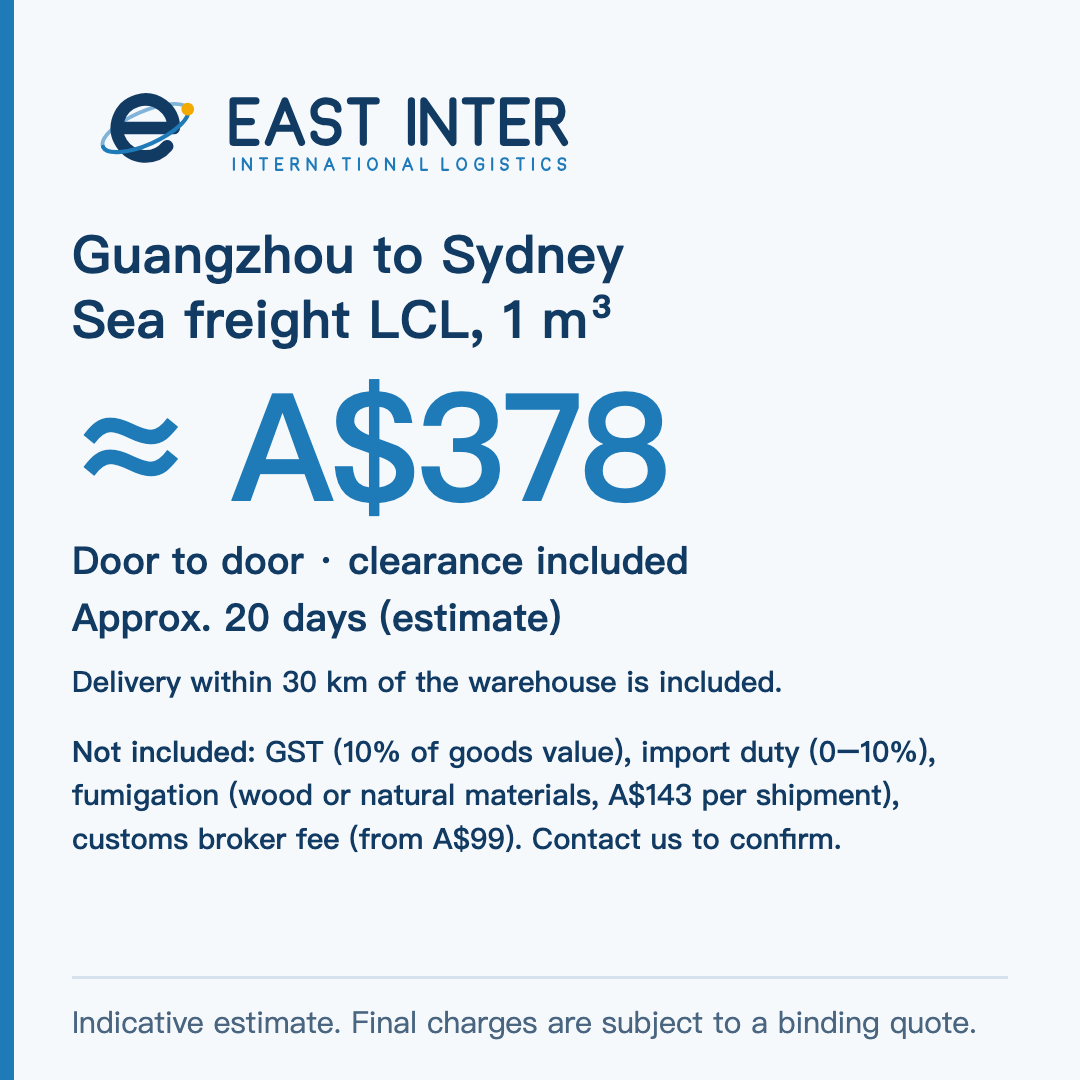
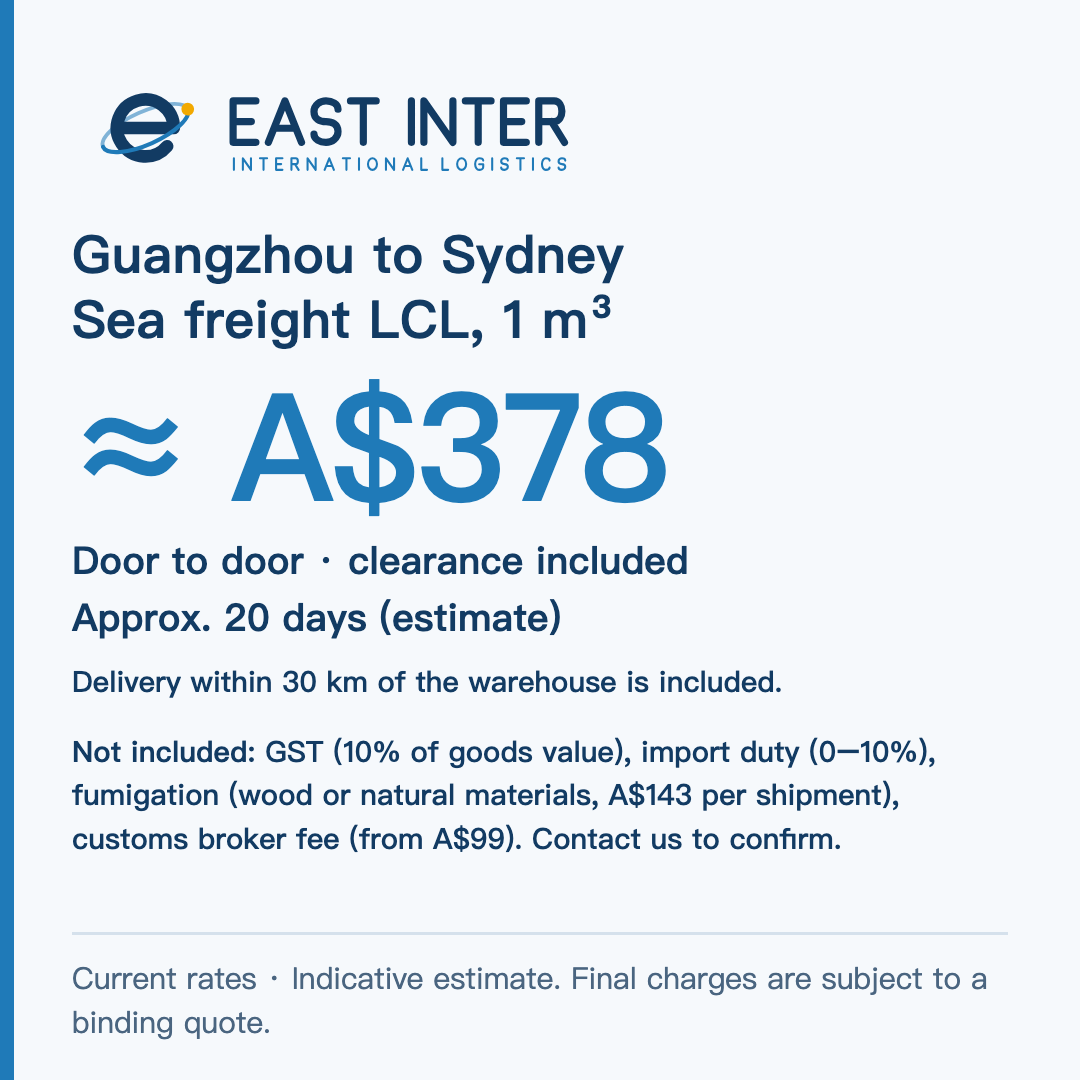
docs(client): East Inter 社媒改 100% 英文：D1-D7 英文稿、d1/d2/d4 英文卡，中文稿标搁置 [east.social.copy-101]

Changed region(s): [[0.0611, 0.8861, 0.9167, 0.9778]]

diff --git a/docs/clients/east-inter/cards-draft/d1-en.html b/docs/clients/east-inter/cards-draft/d1-en.html
@@ -1,0 +1,28 @@
+<!doctype html><html lang="zh"><meta charset="utf-8"><style>
+*{box-sizing:border-box;margin:0}
+body{width:1080px;height:1080px;background:#F6F9FC;font-family:'PingFang SC','Helvetica Neue',Arial,sans-serif;color:#123B63;position:relative;overflow:hidden}
+.top{position:absolute;left:72px;top:64px}
+.bar{position:absolute;left:0;top:0;width:14px;height:1080px;background:#1F7AB8}
+.main{position:absolute;left:72px;right:72px;top:250px}
+h1{font-size:60px;line-height:1.25;font-weight:800;letter-spacing:.5px}
+.big{font-size:190px;line-height:1;font-weight:900;color:#1F7AB8;margin:36px 0 18px;letter-spacing:-4px}
+.sub{font-size:44px;line-height:1.5;font-weight:600}
+.row{display:flex;justify-content:space-between;align-items:baseline;font-size:54px;font-weight:700;padding:20px 0;border-bottom:3px solid #D5E1EC}
+.row b{color:#1F7AB8;font-weight:900}
+.list li{list-style:none;font-size:54px;font-weight:700;padding:16px 0;line-height:1.3}
+.list li:before{content:"";display:inline-block;width:22px;height:22px;border-radius:50%;background:#F2A900;margin-right:26px}
+.foot{position:absolute;left:72px;right:72px;bottom:48px;font-size:32px;color:#4A6580;border-top:3px solid #D5E1EC;padding-top:22px;line-height:1.45}
+.pill{display:inline-block;background:#123B63;color:#fff;border-radius:60px;padding:10px 34px;font-size:40px;font-weight:700;margin:6px 14px 6px 0}
+.note{font-size:30px;line-height:1.5;color:#123B63;margin-top:26px;font-weight:500}
+.note b{font-weight:800}
+.en .main{top:222px}.en h1{font-size:52px}.en .note{font-size:29px}.en .foot{font-size:30px;bottom:36px}.en .row{padding:14px 0}
+</style><body class="en"><div class="bar"></div><div class="top"><svg xmlns="http://www.w3.org/2000/svg" viewBox="0 0 652 160" width="520" height="128" role="img" aria-label="East Inter International Logistics"><title>East Inter International Logistics</title>
+<g transform="translate(17.00 5.00) scale(0.9375)">
+<g transform="rotate(-24 80 80)"><path d="M18 80 A62 22 0 0 1 142 80" fill="none" stroke="#1F7AB8" stroke-width="5" stroke-linecap="round" opacity=".55"/></g>
+<path d="M42 80 H118 A38 38 0 1 0 109.1 104.4" fill="none" stroke="#123B63" stroke-width="17" stroke-linecap="round" stroke-linejoin="round"/>
+<g transform="rotate(-24 80 80)"><path d="M18 80 A62 22 0 0 0 142 80" fill="none" stroke="#1F7AB8" stroke-width="5.5" stroke-linecap="round"/><circle cx="142" cy="80" r="8.5" fill="#F2A900"/></g>
+</g>
+<path d="M 230.60 46.00 H 202.00 V 98.00 H 230.60 M 202.00 72.00 H 224.88 M 246.20 98.00 L 267.00 46.00 L 287.80 98.00 M 254.52 80.32 H 279.48 M 333.56 56.40 C 333.56 49.64 326.02 46.00 318.48 46.00 C 310.94 46.00 303.40 51.20 303.40 59.52 C 303.40 68.88 310.94 72.00 318.48 72.00 C 326.02 72.00 333.56 75.12 333.56 84.48 C 333.56 92.80 326.02 98.00 318.48 98.00 C 310.94 98.00 303.40 94.36 303.40 87.60 M 349.16 46.00 H 381.40 M 365.28 46.00 V 98.00 M 425.60 46.00 V 98.00 M 441.20 98.00 V 46.00 L 477.60 98.00 V 46.00 M 493.20 46.00 H 525.44 M 509.32 46.00 V 98.00 M 569.64 46.00 H 541.04 V 98.00 H 569.64 M 541.04 72.00 H 563.92 M 585.24 98.00 V 46.00 H 604.58 C 617.48 46.00 617.48 72.00 604.58 72.00 H 585.24 M 601.36 72.00 L 617.48 98.00" fill="none" stroke="#123B63" stroke-width="9" stroke-linecap="round" stroke-linejoin="round"/>
+<path d="M 203.00 118.00 V 132.50 M 214.25 132.50 V 118.00 L 224.40 132.50 V 118.00 M 235.65 118.00 H 244.64 M 240.15 118.00 V 132.50 M 263.87 118.00 H 255.89 V 132.50 H 263.87 M 255.89 125.25 H 262.27 M 275.12 132.50 V 118.00 H 280.51 C 284.11 118.00 284.11 125.25 280.51 125.25 H 275.12 M 279.61 125.25 L 284.11 132.50 M 295.36 132.50 V 118.00 L 305.51 132.50 V 118.00 M 316.76 132.50 L 322.56 118.00 L 328.36 132.50 M 319.08 127.57 H 326.04 M 339.61 118.00 H 348.60 M 344.10 118.00 V 132.50 M 359.85 118.00 V 132.50 M 376.75 118.00 C 379.58 118.00 382.41 120.90 382.41 125.25 C 382.41 129.60 379.58 132.50 376.75 132.50 C 373.93 132.50 371.10 129.60 371.10 125.25 C 371.10 120.90 373.93 118.00 376.75 118.00 Z M 393.66 132.50 V 118.00 L 403.81 132.50 V 118.00 M 415.06 132.50 L 420.86 118.00 L 426.66 132.50 M 417.38 127.57 H 424.34 M 437.91 118.00 V 132.50 H 445.16 M 464.39 118.00 V 132.50 H 471.64 M 488.54 118.00 C 491.37 118.00 494.20 120.90 494.20 125.25 C 494.20 129.60 491.37 132.50 488.54 132.50 C 485.71 132.50 482.89 129.60 482.89 125.25 C 482.89 120.90 485.71 118.00 488.54 118.00 Z M 515.60 120.90 C 515.60 119.16 513.06 118.00 510.52 118.00 C 507.98 118.00 505.45 120.90 505.45 125.25 C 505.45 129.60 507.98 132.50 510.52 132.50 C 513.06 132.50 515.60 131.05 515.60 128.88 V 125.54 H 510.52 M 526.85 118.00 V 132.50 M 546.51 120.90 C 546.51 119.02 544.41 118.00 542.30 118.00 C 540.20 118.00 538.10 119.45 538.10 121.77 C 538.10 124.38 540.20 125.25 542.30 125.25 C 544.41 125.25 546.51 126.12 546.51 128.73 C 546.51 131.05 544.41 132.50 542.30 132.50 C 540.20 132.50 538.10 131.49 538.10 129.60 M 557.76 118.00 H 566.75 M 562.25 118.00 V 132.50 M 578.00 118.00 V 132.50 M 598.82 120.90 C 598.82 119.16 596.43 118.00 594.03 118.00 C 591.64 118.00 589.25 120.90 589.25 125.25 C 589.25 129.60 591.64 132.50 594.03 132.50 C 596.43 132.50 598.82 131.34 598.82 129.60 M 618.48 120.90 C 618.48 119.02 616.38 118.00 614.28 118.00 C 612.17 118.00 610.07 119.45 610.07 121.77 C 610.07 124.38 612.17 125.25 614.28 125.25 C 616.38 125.25 618.48 126.12 618.48 128.73 C 618.48 131.05 616.38 132.50 614.28 132.50 C 612.17 132.50 610.07 131.49 610.07 129.60" fill="none" stroke="#1F7AB8" stroke-width="2.6" stroke-linecap="round" stroke-linejoin="round"/>
+</svg>
+</div><div class="main"><h1>From China to Australia,<br>delivered to your door</h1><div style='margin-top:32px;font-size:34px;font-weight:700;color:#4A6580'>Ships from</div><div><span class='pill'>Guangzhou</span><span class='pill'>Shenzhen</span></div><div style='margin-top:26px;font-size:34px;font-weight:700;color:#4A6580'>Delivers to</div><div><span class='pill' style='background:#1F7AB8;font-size:36px'>Sydney</span><span class='pill' style='background:#1F7AB8;font-size:36px'>Melbourne</span><span class='pill' style='background:#1F7AB8;font-size:36px'>Brisbane</span></div><div><span class='pill' style='background:#1F7AB8;font-size:36px'>Adelaide</span><span class='pill' style='background:#1F7AB8;font-size:36px'>Perth</span></div><div class='sub' style='margin-top:24px;font-size:36px'>Somewhere else? Just ask our team.</div></div><div class="foot">Sea freight · Air freight · Door-to-door delivery</div></body></html>

diff --git a/docs/clients/east-inter/cards-draft/d4-en.html b/docs/clients/east-inter/cards-draft/d4-en.html
@@ -1,0 +1,28 @@
+<!doctype html><html lang="zh"><meta charset="utf-8"><style>
+*{box-sizing:border-box;margin:0}
+body{width:1080px;height:1080px;background:#F6F9FC;font-family:'PingFang SC','Helvetica Neue',Arial,sans-serif;color:#123B63;position:relative;overflow:hidden}
+.top{position:absolute;left:72px;top:64px}
+.bar{position:absolute;left:0;top:0;width:14px;height:1080px;background:#1F7AB8}
+.main{position:absolute;left:72px;right:72px;top:250px}
+h1{font-size:60px;line-height:1.25;font-weight:800;letter-spacing:.5px}
+.big{font-size:190px;line-height:1;font-weight:900;color:#1F7AB8;margin:36px 0 18px;letter-spacing:-4px}
+.sub{font-size:44px;line-height:1.5;font-weight:600}
+.row{display:flex;justify-content:space-between;align-items:baseline;font-size:54px;font-weight:700;padding:20px 0;border-bottom:3px solid #D5E1EC}
+.row b{color:#1F7AB8;font-weight:900}
+.list li{list-style:none;font-size:54px;font-weight:700;padding:16px 0;line-height:1.3}
+.list li:before{content:"";display:inline-block;width:22px;height:22px;border-radius:50%;background:#F2A900;margin-right:26px}
+.foot{position:absolute;left:72px;right:72px;bottom:48px;font-size:32px;color:#4A6580;border-top:3px solid #D5E1EC;padding-top:22px;line-height:1.45}
+.pill{display:inline-block;background:#123B63;color:#fff;border-radius:60px;padding:10px 34px;font-size:40px;font-weight:700;margin:6px 14px 6px 0}
+.note{font-size:30px;line-height:1.5;color:#123B63;margin-top:26px;font-weight:500}
+.note b{font-weight:800}
+.en .main{top:222px}.en h1{font-size:52px}.en .note{font-size:29px}.en .foot{font-size:30px;bottom:36px}.en .row{padding:14px 0}
+</style><body class="en"><div class="bar"></div><div class="top"><svg xmlns="http://www.w3.org/2000/svg" viewBox="0 0 652 160" width="520" height="128" role="img" aria-label="East Inter International Logistics"><title>East Inter International Logistics</title>
+<g transform="translate(17.00 5.00) scale(0.9375)">
+<g transform="rotate(-24 80 80)"><path d="M18 80 A62 22 0 0 1 142 80" fill="none" stroke="#1F7AB8" stroke-width="5" stroke-linecap="round" opacity=".55"/></g>
+<path d="M42 80 H118 A38 38 0 1 0 109.1 104.4" fill="none" stroke="#123B63" stroke-width="17" stroke-linecap="round" stroke-linejoin="round"/>
+<g transform="rotate(-24 80 80)"><path d="M18 80 A62 22 0 0 0 142 80" fill="none" stroke="#1F7AB8" stroke-width="5.5" stroke-linecap="round"/><circle cx="142" cy="80" r="8.5" fill="#F2A900"/></g>
+</g>
+<path d="M 230.60 46.00 H 202.00 V 98.00 H 230.60 M 202.00 72.00 H 224.88 M 246.20 98.00 L 267.00 46.00 L 287.80 98.00 M 254.52 80.32 H 279.48 M 333.56 56.40 C 333.56 49.64 326.02 46.00 318.48 46.00 C 310.94 46.00 303.40 51.20 303.40 59.52 C 303.40 68.88 310.94 72.00 318.48 72.00 C 326.02 72.00 333.56 75.12 333.56 84.48 C 333.56 92.80 326.02 98.00 318.48 98.00 C 310.94 98.00 303.40 94.36 303.40 87.60 M 349.16 46.00 H 381.40 M 365.28 46.00 V 98.00 M 425.60 46.00 V 98.00 M 441.20 98.00 V 46.00 L 477.60 98.00 V 46.00 M 493.20 46.00 H 525.44 M 509.32 46.00 V 98.00 M 569.64 46.00 H 541.04 V 98.00 H 569.64 M 541.04 72.00 H 563.92 M 585.24 98.00 V 46.00 H 604.58 C 617.48 46.00 617.48 72.00 604.58 72.00 H 585.24 M 601.36 72.00 L 617.48 98.00" fill="none" stroke="#123B63" stroke-width="9" stroke-linecap="round" stroke-linejoin="round"/>
+<path d="M 203.00 118.00 V 132.50 M 214.25 132.50 V 118.00 L 224.40 132.50 V 118.00 M 235.65 118.00 H 244.64 M 240.15 118.00 V 132.50 M 263.87 118.00 H 255.89 V 132.50 H 263.87 M 255.89 125.25 H 262.27 M 275.12 132.50 V 118.00 H 280.51 C 284.11 118.00 284.11 125.25 280.51 125.25 H 275.12 M 279.61 125.25 L 284.11 132.50 M 295.36 132.50 V 118.00 L 305.51 132.50 V 118.00 M 316.76 132.50 L 322.56 118.00 L 328.36 132.50 M 319.08 127.57 H 326.04 M 339.61 118.00 H 348.60 M 344.10 118.00 V 132.50 M 359.85 118.00 V 132.50 M 376.75 118.00 C 379.58 118.00 382.41 120.90 382.41 125.25 C 382.41 129.60 379.58 132.50 376.75 132.50 C 373.93 132.50 371.10 129.60 371.10 125.25 C 371.10 120.90 373.93 118.00 376.75 118.00 Z M 393.66 132.50 V 118.00 L 403.81 132.50 V 118.00 M 415.06 132.50 L 420.86 118.00 L 426.66 132.50 M 417.38 127.57 H 424.34 M 437.91 118.00 V 132.50 H 445.16 M 464.39 118.00 V 132.50 H 471.64 M 488.54 118.00 C 491.37 118.00 494.20 120.90 494.20 125.25 C 494.20 129.60 491.37 132.50 488.54 132.50 C 485.71 132.50 482.89 129.60 482.89 125.25 C 482.89 120.90 485.71 118.00 488.54 118.00 Z M 515.60 120.90 C 515.60 119.16 513.06 118.00 510.52 118.00 C 507.98 118.00 505.45 120.90 505.45 125.25 C 505.45 129.60 507.98 132.50 510.52 132.50 C 513.06 132.50 515.60 131.05 515.60 128.88 V 125.54 H 510.52 M 526.85 118.00 V 132.50 M 546.51 120.90 C 546.51 119.02 544.41 118.00 542.30 118.00 C 540.20 118.00 538.10 119.45 538.10 121.77 C 538.10 124.38 540.20 125.25 542.30 125.25 C 544.41 125.25 546.51 126.12 546.51 128.73 C 546.51 131.05 544.41 132.50 542.30 132.50 C 540.20 132.50 538.10 131.49 538.10 129.60 M 557.76 118.00 H 566.75 M 562.25 118.00 V 132.50 M 578.00 118.00 V 132.50 M 598.82 120.90 C 598.82 119.16 596.43 118.00 594.03 118.00 C 591.64 118.00 589.25 120.90 589.25 125.25 C 589.25 129.60 591.64 132.50 594.03 132.50 C 596.43 132.50 598.82 131.34 598.82 129.60 M 618.48 120.90 C 618.48 119.02 616.38 118.00 614.28 118.00 C 612.17 118.00 610.07 119.45 610.07 121.77 C 610.07 124.38 612.17 125.25 614.28 125.25 C 616.38 125.25 618.48 126.12 618.48 128.73 C 618.48 131.05 616.38 132.50 614.28 132.50 C 612.17 132.50 610.07 131.49 610.07 129.60" fill="none" stroke="#1F7AB8" stroke-width="2.6" stroke-linecap="round" stroke-linejoin="round"/>
+</svg>
+</div><div class="main"><h1>Want a quote?<br>Have these ready</h1><ul class='list' style='margin-top:14px'><li style='font-size:42px;padding:6px 0'>Origin</li><li style='font-size:42px;padding:6px 0'>Destination</li><li style='font-size:42px;padding:6px 0'>Goods description</li><li style='font-size:42px;padding:6px 0'>Number of packages</li><li style='font-size:42px;padding:6px 0'>Total weight</li><li style='font-size:42px;padding:6px 0'>Outer dimensions</li></ul><div style='margin-top:22px;font-size:40px;font-weight:800;color:#123B63'>Email our team: zzj@eastinter.net</div></div><div class="foot">Different box sizes? Add a packing list.</div></body></html>

diff --git a/docs/clients/east-inter/cards-draft/d2-en.html b/docs/clients/east-inter/cards-draft/d2-en.html
@@ -1,0 +1,28 @@
+<!doctype html><html lang="zh"><meta charset="utf-8"><style>
+*{box-sizing:border-box;margin:0}
+body{width:1080px;height:1080px;background:#F6F9FC;font-family:'PingFang SC','Helvetica Neue',Arial,sans-serif;color:#123B63;position:relative;overflow:hidden}
+.top{position:absolute;left:72px;top:64px}
+.bar{position:absolute;left:0;top:0;width:14px;height:1080px;background:#1F7AB8}
+.main{position:absolute;left:72px;right:72px;top:250px}
+h1{font-size:60px;line-height:1.25;font-weight:800;letter-spacing:.5px}
+.big{font-size:190px;line-height:1;font-weight:900;color:#1F7AB8;margin:36px 0 18px;letter-spacing:-4px}
+.sub{font-size:44px;line-height:1.5;font-weight:600}
+.row{display:flex;justify-content:space-between;align-items:baseline;font-size:54px;font-weight:700;padding:20px 0;border-bottom:3px solid #D5E1EC}
+.row b{color:#1F7AB8;font-weight:900}
+.list li{list-style:none;font-size:54px;font-weight:700;padding:16px 0;line-height:1.3}
+.list li:before{content:"";display:inline-block;width:22px;height:22px;border-radius:50%;background:#F2A900;margin-right:26px}
+.foot{position:absolute;left:72px;right:72px;bottom:48px;font-size:32px;color:#4A6580;border-top:3px solid #D5E1EC;padding-top:22px;line-height:1.45}
+.pill{display:inline-block;background:#123B63;color:#fff;border-radius:60px;padding:10px 34px;font-size:40px;font-weight:700;margin:6px 14px 6px 0}
+.note{font-size:30px;line-height:1.5;color:#123B63;margin-top:26px;font-weight:500}
+.note b{font-weight:800}
+.en .main{top:222px}.en h1{font-size:52px}.en .note{font-size:29px}.en .foot{font-size:30px;bottom:36px}.en .row{padding:14px 0}
+</style><body class="en"><div class="bar"></div><div class="top"><svg xmlns="http://www.w3.org/2000/svg" viewBox="0 0 652 160" width="520" height="128" role="img" aria-label="East Inter International Logistics"><title>East Inter International Logistics</title>
+<g transform="translate(17.00 5.00) scale(0.9375)">
+<g transform="rotate(-24 80 80)"><path d="M18 80 A62 22 0 0 1 142 80" fill="none" stroke="#1F7AB8" stroke-width="5" stroke-linecap="round" opacity=".55"/></g>
+<path d="M42 80 H118 A38 38 0 1 0 109.1 104.4" fill="none" stroke="#123B63" stroke-width="17" stroke-linecap="round" stroke-linejoin="round"/>
+<g transform="rotate(-24 80 80)"><path d="M18 80 A62 22 0 0 0 142 80" fill="none" stroke="#1F7AB8" stroke-width="5.5" stroke-linecap="round"/><circle cx="142" cy="80" r="8.5" fill="#F2A900"/></g>
+</g>
+<path d="M 230.60 46.00 H 202.00 V 98.00 H 230.60 M 202.00 72.00 H 224.88 M 246.20 98.00 L 267.00 46.00 L 287.80 98.00 M 254.52 80.32 H 279.48 M 333.56 56.40 C 333.56 49.64 326.02 46.00 318.48 46.00 C 310.94 46.00 303.40 51.20 303.40 59.52 C 303.40 68.88 310.94 72.00 318.48 72.00 C 326.02 72.00 333.56 75.12 333.56 84.48 C 333.56 92.80 326.02 98.00 318.48 98.00 C 310.94 98.00 303.40 94.36 303.40 87.60 M 349.16 46.00 H 381.40 M 365.28 46.00 V 98.00 M 425.60 46.00 V 98.00 M 441.20 98.00 V 46.00 L 477.60 98.00 V 46.00 M 493.20 46.00 H 525.44 M 509.32 46.00 V 98.00 M 569.64 46.00 H 541.04 V 98.00 H 569.64 M 541.04 72.00 H 563.92 M 585.24 98.00 V 46.00 H 604.58 C 617.48 46.00 617.48 72.00 604.58 72.00 H 585.24 M 601.36 72.00 L 617.48 98.00" fill="none" stroke="#123B63" stroke-width="9" stroke-linecap="round" stroke-linejoin="round"/>
+<path d="M 203.00 118.00 V 132.50 M 214.25 132.50 V 118.00 L 224.40 132.50 V 118.00 M 235.65 118.00 H 244.64 M 240.15 118.00 V 132.50 M 263.87 118.00 H 255.89 V 132.50 H 263.87 M 255.89 125.25 H 262.27 M 275.12 132.50 V 118.00 H 280.51 C 284.11 118.00 284.11 125.25 280.51 125.25 H 275.12 M 279.61 125.25 L 284.11 132.50 M 295.36 132.50 V 118.00 L 305.51 132.50 V 118.00 M 316.76 132.50 L 322.56 118.00 L 328.36 132.50 M 319.08 127.57 H 326.04 M 339.61 118.00 H 348.60 M 344.10 118.00 V 132.50 M 359.85 118.00 V 132.50 M 376.75 118.00 C 379.58 118.00 382.41 120.90 382.41 125.25 C 382.41 129.60 379.58 132.50 376.75 132.50 C 373.93 132.50 371.10 129.60 371.10 125.25 C 371.10 120.90 373.93 118.00 376.75 118.00 Z M 393.66 132.50 V 118.00 L 403.81 132.50 V 118.00 M 415.06 132.50 L 420.86 118.00 L 426.66 132.50 M 417.38 127.57 H 424.34 M 437.91 118.00 V 132.50 H 445.16 M 464.39 118.00 V 132.50 H 471.64 M 488.54 118.00 C 491.37 118.00 494.20 120.90 494.20 125.25 C 494.20 129.60 491.37 132.50 488.54 132.50 C 485.71 132.50 482.89 129.60 482.89 125.25 C 482.89 120.90 485.71 118.00 488.54 118.00 Z M 515.60 120.90 C 515.60 119.16 513.06 118.00 510.52 118.00 C 507.98 118.00 505.45 120.90 505.45 125.25 C 505.45 129.60 507.98 132.50 510.52 132.50 C 513.06 132.50 515.60 131.05 515.60 128.88 V 125.54 H 510.52 M 526.85 118.00 V 132.50 M 546.51 120.90 C 546.51 119.02 544.41 118.00 542.30 118.00 C 540.20 118.00 538.10 119.45 538.10 121.77 C 538.10 124.38 540.20 125.25 542.30 125.25 C 544.41 125.25 546.51 126.12 546.51 128.73 C 546.51 131.05 544.41 132.50 542.30 132.50 C 540.20 132.50 538.10 131.49 538.10 129.60 M 557.76 118.00 H 566.75 M 562.25 118.00 V 132.50 M 578.00 118.00 V 132.50 M 598.82 120.90 C 598.82 119.16 596.43 118.00 594.03 118.00 C 591.64 118.00 589.25 120.90 589.25 125.25 C 589.25 129.60 591.64 132.50 594.03 132.50 C 596.43 132.50 598.82 131.34 598.82 129.60 M 618.48 120.90 C 618.48 119.02 616.38 118.00 614.28 118.00 C 612.17 118.00 610.07 119.45 610.07 121.77 C 610.07 124.38 612.17 125.25 614.28 125.25 C 616.38 125.25 618.48 126.12 618.48 128.73 C 618.48 131.05 616.38 132.50 614.28 132.50 C 612.17 132.50 610.07 131.49 610.07 129.60" fill="none" stroke="#1F7AB8" stroke-width="2.6" stroke-linecap="round" stroke-linejoin="round"/>
+</svg>
+</div><div class="main"><h1>Three ways to ship<br>from China to Australia</h1><ul class='list' style='margin-top:26px'><li style='font-size:36px'>Sea freight: LCL or FCL</li><li style='font-size:36px'>Air freight: urgent, high-value cargo</li><li style='font-size:36px'>Consolidation: many suppliers, one shipment</li></ul><div class='sub' style='font-size:34px;margin-top:20px'>We also offer export and import clearance, warehousing and packing, and last-mile delivery.</div></div><div class="foot">Consolidating? Contact us before dispatching goods to confirm the receiving address and packing requirements.</div></body></html>

diff --git a/docs/clients/east-inter/cards-draft/card2-en.html b/docs/clients/east-inter/cards-draft/card2-en.html
@@ -25,4 +25,4 @@ h1{font-size:60px;line-height:1.25;font-weight:800;letter-spacing:.5px}
 <path d="M 230.60 46.00 H 202.00 V 98.00 H 230.60 M 202.00 72.00 H 224.88 M 246.20 98.00 L 267.00 46.00 L 287.80 98.00 M 254.52 80.32 H 279.48 M 333.56 56.40 C 333.56 49.64 326.02 46.00 318.48 46.00 C 310.94 46.00 303.40 51.20 303.40 59.52 C 303.40 68.88 310.94 72.00 318.48 72.00 C 326.02 72.00 333.56 75.12 333.56 84.48 C 333.56 92.80 326.02 98.00 318.48 98.00 C 310.94 98.00 303.40 94.36 303.40 87.60 M 349.16 46.00 H 381.40 M 365.28 46.00 V 98.00 M 425.60 46.00 V 98.00 M 441.20 98.00 V 46.00 L 477.60 98.00 V 46.00 M 493.20 46.00 H 525.44 M 509.32 46.00 V 98.00 M 569.64 46.00 H 541.04 V 98.00 H 569.64 M 541.04 72.00 H 563.92 M 585.24 98.00 V 46.00 H 604.58 C 617.48 46.00 617.48 72.00 604.58 72.00 H 585.24 M 601.36 72.00 L 617.48 98.00" fill="none" stroke="#123B63" stroke-width="9" stroke-linecap="round" stroke-linejoin="round"/>
 <path d="M 203.00 118.00 V 132.50 M 214.25 132.50 V 118.00 L 224.40 132.50 V 118.00 M 235.65 118.00 H 244.64 M 240.15 118.00 V 132.50 M 263.87 118.00 H 255.89 V 132.50 H 263.87 M 255.89 125.25 H 262.27 M 275.12 132.50 V 118.00 H 280.51 C 284.11 118.00 284.11 125.25 280.51 125.25 H 275.12 M 279.61 125.25 L 284.11 132.50 M 295.36 132.50 V 118.00 L 305.51 132.50 V 118.00 M 316.76 132.50 L 322.56 118.00 L 328.36 132.50 M 319.08 127.57 H 326.04 M 339.61 118.00 H 348.60 M 344.10 118.00 V 132.50 M 359.85 118.00 V 132.50 M 376.75 118.00 C 379.58 118.00 382.41 120.90 382.41 125.25 C 382.41 129.60 379.58 132.50 376.75 132.50 C 373.93 132.50 371.10 129.60 371.10 125.25 C 371.10 120.90 373.93 118.00 376.75 118.00 Z M 393.66 132.50 V 118.00 L 403.81 132.50 V 118.00 M 415.06 132.50 L 420.86 118.00 L 426.66 132.50 M 417.38 127.57 H 424.34 M 437.91 118.00 V 132.50 H 445.16 M 464.39 118.00 V 132.50 H 471.64 M 488.54 118.00 C 491.37 118.00 494.20 120.90 494.20 125.25 C 494.20 129.60 491.37 132.50 488.54 132.50 C 485.71 132.50 482.89 129.60 482.89 125.25 C 482.89 120.90 485.71 118.00 488.54 118.00 Z M 515.60 120.90 C 515.60 119.16 513.06 118.00 510.52 118.00 C 507.98 118.00 505.45 120.90 505.45 125.25 C 505.45 129.60 507.98 132.50 510.52 132.50 C 513.06 132.50 515.60 131.05 515.60 128.88 V 125.54 H 510.52 M 526.85 118.00 V 132.50 M 546.51 120.90 C 546.51 119.02 544.41 118.00 542.30 118.00 C 540.20 118.00 538.10 119.45 538.10 121.77 C 538.10 124.38 540.20 125.25 542.30 125.25 C 544.41 125.25 546.51 126.12 546.51 128.73 C 546.51 131.05 544.41 132.50 542.30 132.50 C 540.20 132.50 538.10 131.49 538.10 129.60 M 557.76 118.00 H 566.75 M 562.25 118.00 V 132.50 M 578.00 118.00 V 132.50 M 598.82 120.90 C 598.82 119.16 596.43 118.00 594.03 118.00 C 591.64 118.00 589.25 120.90 589.25 125.25 C 589.25 129.60 591.64 132.50 594.03 132.50 C 596.43 132.50 598.82 131.34 598.82 129.60 M 618.48 120.90 C 618.48 119.02 616.38 118.00 614.28 118.00 C 612.17 118.00 610.07 119.45 610.07 121.77 C 610.07 124.38 612.17 125.25 614.28 125.25 C 616.38 125.25 618.48 126.12 618.48 128.73 C 618.48 131.05 616.38 132.50 614.28 132.50 C 612.17 132.50 610.07 131.49 610.07 129.60" fill="none" stroke="#1F7AB8" stroke-width="2.6" stroke-linecap="round" stroke-linejoin="round"/>
 </svg>
-</div><div class="main"><h1>5 m³ sea freight —<br>which city?</h1><div style='margin-top:30px'><div class='row' style='font-size:42px'><span>Sydney · Melbourne · Brisbane</span><b>≈ A$1,238</b></div><div class='row' style='font-size:42px'><span>Perth (Fremantle)</span><b>≈ A$1,512</b></div><div class='row' style='font-size:42px'><span>Adelaide</span><b>≈ A$1,658</b></div></div><div class='note' style='margin-top:20px'>From Guangzhou. Perth and Adelaide include door delivery; the other cities include delivery within 30 km of the warehouse.</div><div class='note' style='margin-top:14px'><b>Not included:</b> GST, import duty, fumigation, customs broker fee. <span style='white-space:nowrap'>Contact us to confirm.</span></div></div><div class="foot">Indicative estimate. Final charges are subject to a binding quote.</div></body></html>
+</div><div class="main"><h1>5 m³ sea freight —<br>which city?</h1><div style='margin-top:30px'><div class='row' style='font-size:42px'><span>Sydney · Melbourne · Brisbane</span><b>≈ A$1,238</b></div><div class='row' style='font-size:42px'><span>Perth (Fremantle)</span><b>≈ A$1,512</b></div><div class='row' style='font-size:42px'><span>Adelaide</span><b>≈ A$1,658</b></div></div><div class='note' style='margin-top:20px'>From Guangzhou. Perth and Adelaide include door delivery; the other cities include delivery within 30 km of the warehouse.</div><div class='note' style='margin-top:14px'><b>Not included:</b> GST, import duty, fumigation, customs broker fee. <span style='white-space:nowrap'>Contact us to confirm.</span></div></div><div class="foot">Current rates · Indicative estimate. Final charges are subject to a binding quote.</div></body></html>

diff --git a/docs/clients/east-inter/cards-draft/card1-en.html b/docs/clients/east-inter/cards-draft/card1-en.html
@@ -25,4 +25,4 @@ h1{font-size:60px;line-height:1.25;font-weight:800;letter-spacing:.5px}
 <path d="M 230.60 46.00 H 202.00 V 98.00 H 230.60 M 202.00 72.00 H 224.88 M 246.20 98.00 L 267.00 46.00 L 287.80 98.00 M 254.52 80.32 H 279.48 M 333.56 56.40 C 333.56 49.64 326.02 46.00 318.48 46.00 C 310.94 46.00 303.40 51.20 303.40 59.52 C 303.40 68.88 310.94 72.00 318.48 72.00 C 326.02 72.00 333.56 75.12 333.56 84.48 C 333.56 92.80 326.02 98.00 318.48 98.00 C 310.94 98.00 303.40 94.36 303.40 87.60 M 349.16 46.00 H 381.40 M 365.28 46.00 V 98.00 M 425.60 46.00 V 98.00 M 441.20 98.00 V 46.00 L 477.60 98.00 V 46.00 M 493.20 46.00 H 525.44 M 509.32 46.00 V 98.00 M 569.64 46.00 H 541.04 V 98.00 H 569.64 M 541.04 72.00 H 563.92 M 585.24 98.00 V 46.00 H 604.58 C 617.48 46.00 617.48 72.00 604.58 72.00 H 585.24 M 601.36 72.00 L 617.48 98.00" fill="none" stroke="#123B63" stroke-width="9" stroke-linecap="round" stroke-linejoin="round"/>
 <path d="M 203.00 118.00 V 132.50 M 214.25 132.50 V 118.00 L 224.40 132.50 V 118.00 M 235.65 118.00 H 244.64 M 240.15 118.00 V 132.50 M 263.87 118.00 H 255.89 V 132.50 H 263.87 M 255.89 125.25 H 262.27 M 275.12 132.50 V 118.00 H 280.51 C 284.11 118.00 284.11 125.25 280.51 125.25 H 275.12 M 279.61 125.25 L 284.11 132.50 M 295.36 132.50 V 118.00 L 305.51 132.50 V 118.00 M 316.76 132.50 L 322.56 118.00 L 328.36 132.50 M 319.08 127.57 H 326.04 M 339.61 118.00 H 348.60 M 344.10 118.00 V 132.50 M 359.85 118.00 V 132.50 M 376.75 118.00 C 379.58 118.00 382.41 120.90 382.41 125.25 C 382.41 129.60 379.58 132.50 376.75 132.50 C 373.93 132.50 371.10 129.60 371.10 125.25 C 371.10 120.90 373.93 118.00 376.75 118.00 Z M 393.66 132.50 V 118.00 L 403.81 132.50 V 118.00 M 415.06 132.50 L 420.86 118.00 L 426.66 132.50 M 417.38 127.57 H 424.34 M 437.91 118.00 V 132.50 H 445.16 M 464.39 118.00 V 132.50 H 471.64 M 488.54 118.00 C 491.37 118.00 494.20 120.90 494.20 125.25 C 494.20 129.60 491.37 132.50 488.54 132.50 C 485.71 132.50 482.89 129.60 482.89 125.25 C 482.89 120.90 485.71 118.00 488.54 118.00 Z M 515.60 120.90 C 515.60 119.16 513.06 118.00 510.52 118.00 C 507.98 118.00 505.45 120.90 505.45 125.25 C 505.45 129.60 507.98 132.50 510.52 132.50 C 513.06 132.50 515.60 131.05 515.60 128.88 V 125.54 H 510.52 M 526.85 118.00 V 132.50 M 546.51 120.90 C 546.51 119.02 544.41 118.00 542.30 118.00 C 540.20 118.00 538.10 119.45 538.10 121.77 C 538.10 124.38 540.20 125.25 542.30 125.25 C 544.41 125.25 546.51 126.12 546.51 128.73 C 546.51 131.05 544.41 132.50 542.30 132.50 C 540.20 132.50 538.10 131.49 538.10 129.60 M 557.76 118.00 H 566.75 M 562.25 118.00 V 132.50 M 578.00 118.00 V 132.50 M 598.82 120.90 C 598.82 119.16 596.43 118.00 594.03 118.00 C 591.64 118.00 589.25 120.90 589.25 125.25 C 589.25 129.60 591.64 132.50 594.03 132.50 C 596.43 132.50 598.82 131.34 598.82 129.60 M 618.48 120.90 C 618.48 119.02 616.38 118.00 614.28 118.00 C 612.17 118.00 610.07 119.45 610.07 121.77 C 610.07 124.38 612.17 125.25 614.28 125.25 C 616.38 125.25 618.48 126.12 618.48 128.73 C 618.48 131.05 616.38 132.50 614.28 132.50 C 612.17 132.50 610.07 131.49 610.07 129.60" fill="none" stroke="#1F7AB8" stroke-width="2.6" stroke-linecap="round" stroke-linejoin="round"/>
 </svg>
-</div><div class="main"><h1>Guangzhou to Sydney<br>Sea freight LCL, 1 m³</h1><div class='big' style='font-size:150px;margin:20px 0 10px'>≈ A$378</div><div class='sub' style='font-size:38px'>Door to door · clearance included<br>Approx. 20 days (estimate)</div><div class='note' style='margin-top:14px'>Delivery within 30 km of the warehouse is included.</div><div class='note'><b>Not included:</b> GST (10% of goods value), import duty (0–10%), fumigation (wood or natural materials, A$143 per shipment), customs broker fee (from A$99). <span style='white-space:nowrap'>Contact us to confirm.</span></div></div><div class="foot">Indicative estimate. Final charges are subject to a binding quote.</div></body></html>
+</div><div class="main"><h1>Guangzhou to Sydney<br>Sea freight LCL, 1 m³</h1><div class='big' style='font-size:150px;margin:20px 0 10px'>≈ A$378</div><div class='sub' style='font-size:38px'>Door to door · clearance included<br>Approx. 20 days (estimate)</div><div class='note' style='margin-top:14px'>Delivery within 30 km of the warehouse is included.</div><div class='note'><b>Not included:</b> GST (10% of goods value), import duty (0–10%), fumigation (wood or natural materials, A$143 per shipment), customs broker fee (from A$99). <span style='white-space:nowrap'>Contact us to confirm.</span></div></div><div class="foot">Current rates · Indicative estimate. Final charges are subject to a binding quote.</div></body></html>

diff --git a/docs/clients/east-inter/2026-10-14-d1-d7-copy-en-draft.md b/docs/clients/east-inter/2026-10-14-d1-d7-copy-en-draft.md
@@ -1,0 +1,115 @@
+# East Inter D1–D7 English copy draft v0.1 (101, 2026-10-14)
+
+- **Why English**: PM decided (relayed by 18 and 108, 10-14): East Inter's social and ads are 100% English, aimed at local Australian customers. **The Chinese drafts (`2026-10-14-d1-d7-copy-draft.md`, `2026-10-14-price-cards-copy-draft.md`, the `-zh` cards) are shelved: not published, not deleted.** The client asset message and the facts table (E1–E11) in the Chinese D1–D7 file still apply.
+- **Status**: draft only. Nothing published, no switch set, no database write. Risk C. D1/D2/D4 cards and copy go to Sudongpo (copy) and Maliang (visuals); price cards 1 and 2 (English) already passed both. D3/D5/D6/D7 below are text drafts only, not yet reviewed.
+- **Rules kept**: facts only from www.eastinter.com.au (calculator page included); say "current rates", never a month; every price carries "Indicative estimate. Final charges are subject to a binding quote."; no "spots left", no early-bird, no countdown, no "live tracking" (the site says online tracking is not connected yet).
+- **Spelling**: Australian English. Prices in A$.
+- **Open for the client / PM**: whether the A$ figures include GST (the calculator page does not say). Until answered, price copy keeps "Not included: GST, import duty, fumigation, customs broker fee" and says "estimate".
+
+## Facts used (page → fact)
+
+Same E1–E11 table as the Chinese D1–D7 file; D1–D4/D6 use the home page, D5/D7 the calculator page. Home page wording: "One team, door to door"; "Sea freight, air freight, door-to-door delivery"; origin Guangzhou, Shenzhen; destinations Sydney, Melbourne, Brisbane, Adelaide, Perth ("Somewhere else? Ask about your destination"); services Sea (LCL/FCL: furniture, stock or a full container), Air (urgent orders and high-value cargo), Consolidation (multiple suppliers, one shipment in China); extras: export and import clearance, warehousing and packing, last-mile delivery; FAQ items on consolidation, sea vs air, what a quote includes, what to provide for a quote, tracking.
+
+## Posting plan (Australia)
+
+- **Audience (assumption, not site fact)**: Australian importers and small businesses buying from China; the site gives no target-customer list. Test it with results, do not state it in copy.
+- **Times (assumption, untested)**: Posts 12:00 AEDT (Sydney/Melbourne, UTC+11 from 4 Oct 2026); Reels 19:00 AEDT. Brisbane does not use daylight saving (one hour behind Sydney); Perth is three hours behind Sydney, so 12:00 AEDT is 09:00 in Perth. Adjust after 4-hour and 72-hour results.
+- **Order**: D1 Post, D2 Post, D3 Reel, D4 Post, D5 Post, D6 Carousel, D7 Reel. No start date yet: needs PM authorisation, a named publisher, and the Facebook connection check (the client's page has no authorisation record in the database, so publishing is unverified).
+- First comments are added by hand with tracking parameters: `?utm_source=facebook&utm_medium=organic&utm_campaign=eastinter-d<N>&utm_content=<post|reel|carousel>`.
+
+---
+
+## D1 · Post · map card (card: `cards-draft/d1-en.png`)
+
+```
+Shipping from China to Australia?
+
+Ships from: Guangzhou, Shenzhen
+Delivers to: Sydney, Melbourne, Brisbane, Adelaide, Perth
+Somewhere else? Just ask our team.
+
+Sea freight, air freight and door-to-door delivery. One team, from China to your door in Australia.
+```
+First comment: `https://www.eastinter.com.au/?utm_source=facebook&utm_medium=organic&utm_campaign=eastinter-d1&utm_content=post`
+
+## D2 · Post · three ways (card: `d2-en.png`)
+
+```
+Three ways to ship from China to Australia:
+
+Sea freight: furniture, stock or a full container. LCL and FCL both available.
+Air freight: for urgent orders and high-value cargo.
+Consolidation: bring goods from multiple suppliers together in China for one shipment.
+
+We also offer export and import clearance, warehousing and packing, and last-mile delivery.
+
+Consolidating? Contact us before dispatching goods to confirm the receiving address, storage terms and packing requirements.
+```
+First comment: `.../?utm_source=facebook&utm_medium=organic&utm_campaign=eastinter-d2&utm_content=post#services` + "Taxes, duties, insurance and destination charges should be confirmed with our team before booking."
+
+## D3 · Reel (video factory only; blocked, see below)
+
+On-screen text (short lines, safe area y270–1248): "Four steps." / "China to Australia." / "1 Tell us your plans" / "2 Send it to our warehouse" / "3 We handle the journey" / "4 Delivered to your door".
+Post text:
+```
+China to Australia in four steps. Tell us what you are shipping, where from and where to, and we will help you choose a shipping option.
+```
+First comment: `.../?utm_source=facebook&utm_medium=organic&utm_campaign=eastinter-d3&utm_content=reel#how` + "Contact us before dispatching goods to confirm the receiving address. Taxes, duties, insurance and destination charges should be confirmed before booking."
+
+## D4 · Post · quote checklist (card: `d4-en.png`)
+
+```
+Want a quote? Have these ready:
+
+• Origin
+• Destination
+• Goods description
+• Number of packages
+• Total weight
+• Outer dimensions
+
+Different box sizes? Add a packing list.
+Email our team: zzj@eastinter.net
+```
+First comment: `.../?utm_source=facebook&utm_medium=organic&utm_campaign=eastinter-d4&utm_content=post#faq`
+
+## D5 · Post · weight rule (text only, unreviewed)
+
+```
+Which weight does the calculator use?
+
+The greater of actual weight and volume weight.
+Volume weight = length × width × height (cm) ÷ 6,000.
+
+Example (just the formula, not a quote): a 50 × 40 × 30 cm box has a volume weight of 60,000 ÷ 6,000 = 10 kg. If the box actually weighs more, the actual weight is used.
+
+If you leave volume blank, the estimate uses actual weight only.
+
+Indicative estimate. Final charges are subject to a binding quote.
+```
+First comment: calculator link with `utm_campaign=eastinter-d5`.
+
+## D6 · Carousel · sea or air (text only, unreviewed)
+
+Cards: "Sea or air?" / "Sea: generally suits larger shipments when your schedule is flexible" / "Air: suits urgent and higher-value goods" / "Not sure? Tell us your cargo and the date you need it in Australia."
+```
+Sea or air from China?
+
+Sea freight generally suits larger shipments when your schedule is flexible. Air freight suits urgent and higher-value goods.
+
+Not sure? Share your cargo details and the date you need it in Australia, and our team will recommend an option and confirm current transit estimates.
+```
+First comment: `.../?utm_source=facebook&utm_medium=organic&utm_campaign=eastinter-d6&utm_content=carousel#faq`
+
+## D7 · Reel · calculator walkthrough (blocked; not reviewed)
+
+Screen recording of the real calculator, then big text: "Pick a service" / "Choose delivery" / "General or sensitive goods?" / "DDU or DDP" / "Enter weight and volume" / "Get an instant estimate". Figures shown only from a live run, labelled "example", with "Indicative estimate. Final charges are subject to a binding quote." on screen. The result panel shows the estimate and transit time, so this Reel carries numbers; confirm the GST question first.
+```
+Instant estimate in AUD, with a clear cost breakdown. No sign-up.
+Indicative estimate. Final charges are subject to a binding quote.
+```
+First comment: calculator link with `utm_campaign=eastinter-d7&utm_content=reel`.
+
+## Video blockers (unchanged)
+
+East Inter's client id is not on the video machine's allow-list (a level-A setting, reported to coordination, not changed here); there are no logistics recipes in `viral_reference_library`; no footage. Videos go through the factory only, and must be played with sound before review.

diff --git a/docs/clients/east-inter/2026-10-14-price-cards-copy-draft.md b/docs/clients/east-inter/2026-10-14-price-cards-copy-draft.md
@@ -1,5 +1,8 @@
 # East Inter 图文价格卡文案稿 v0.1（待审稿，101 号，2026-10-14）
 
+> **SHELVED 搁置不发（10-14 PM 拍板：East Inter 社媒和广告 100% 英文，面向澳洲本地买家）。** 本文件保留不删。英文版见 `2026-10-14-d1-d7-copy-en-draft.md`；价格卡的英文版见本文件末尾「英文版」一节。
+
+
 - **性质**：只是文案草稿。没发布、没建单、没设开关、没写库。风险级 C。**卡点更新（10-14）：PM 已决定新报价可对外使用，不再等客户确认**（台账卡 `2026-10-14-east-inter-pm-decides-quote-public-and-brand`）。仍然不能自己发：苏东坡要复看、发布要 PM 授权、谁点发布未定。
 - **用途**：周五前给广告和自然发布顶位的图文价格卡；视频（V1/V6/V7）等出片机准入和客户确认。
 - **没审过**：苏东坡、马良没看。审过之前不许当成可发版本。
@@ -169,7 +172,7 @@ Four costs not included in the sea freight estimate — confirm before booking.
 
 ## 英文版（供 108 号广告中英各半测试；只做卡 1、卡 2）
 
-英文只用官网计算器页的英文说法，不另加承诺。卡面角落统一用官网原句：「Indicative estimate. Final charges are subject to a binding quote.」
+英文只用官网计算器页的英文说法，不另加承诺。卡面角落统一为「Current rates · Indicative estimate. Final charges are subject to a binding quote.」（后半句是官网原句，前面加 Current rates 表示不写月份）
 
 **卡 1 英文**（10-14 苏东坡复审后改：大字加「约」，补「不含」）
 卡面：Guangzhou to Sydney · Sea freight LCL, 1 m³ · **A$378** · Door to door · clearance included · approx. 20 days

diff --git a/docs/clients/east-inter/2026-10-14-d1-d7-copy-draft.md b/docs/clients/east-inter/2026-10-14-d1-d7-copy-draft.md
@@ -1,5 +1,8 @@
 # East Inter D1–D7 文案稿 v0.1（待审稿，101 号，2026-10-14）
 
+> **SHELVED 搁置不发（10-14 PM 拍板：East Inter 社媒和广告 100% 英文，面向澳洲本地买家）。** 本文件保留不删。英文版见 `2026-10-14-d1-d7-copy-en-draft.md`；价格卡的英文版见本文件末尾「英文版」一节。
+
+
 - **性质**：只是文案草稿。没发布、没建单、没设开关、没写库。风险级 C。
 - **没审过**：苏东坡（内容）、马良（画面）都还没看；**审过之前不许当成可发版本**。
 - **平台**：只做 Facebook（合同排除 Instagram、TikTok）。不排 Story。
